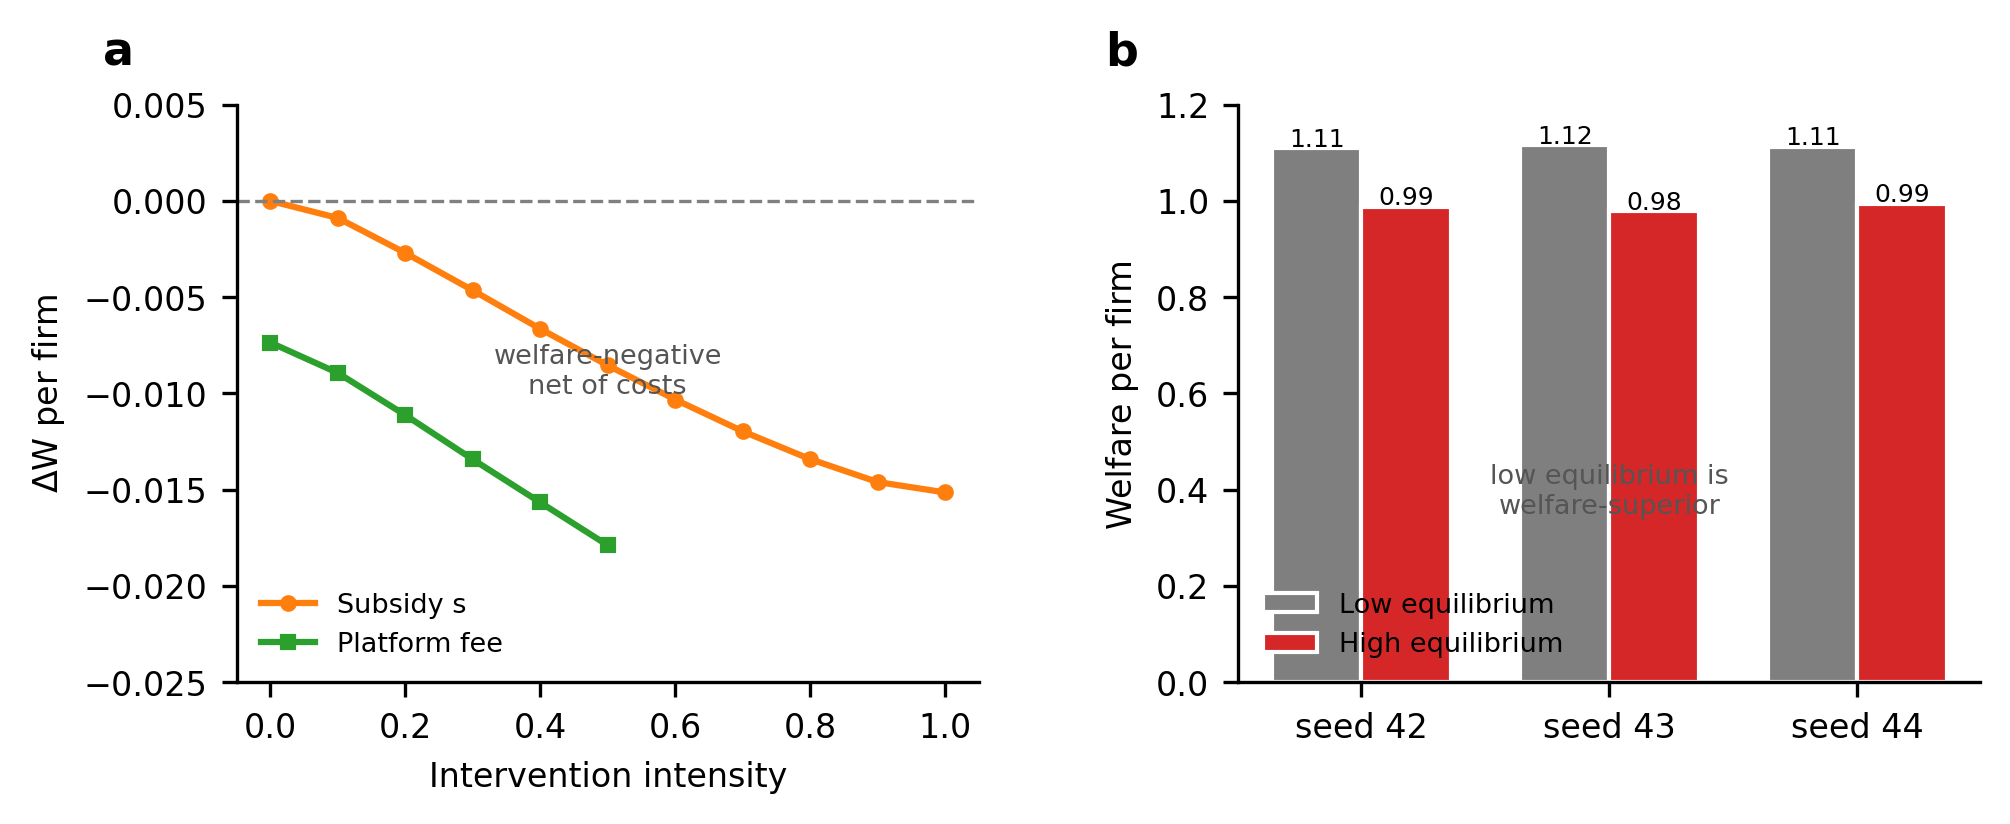
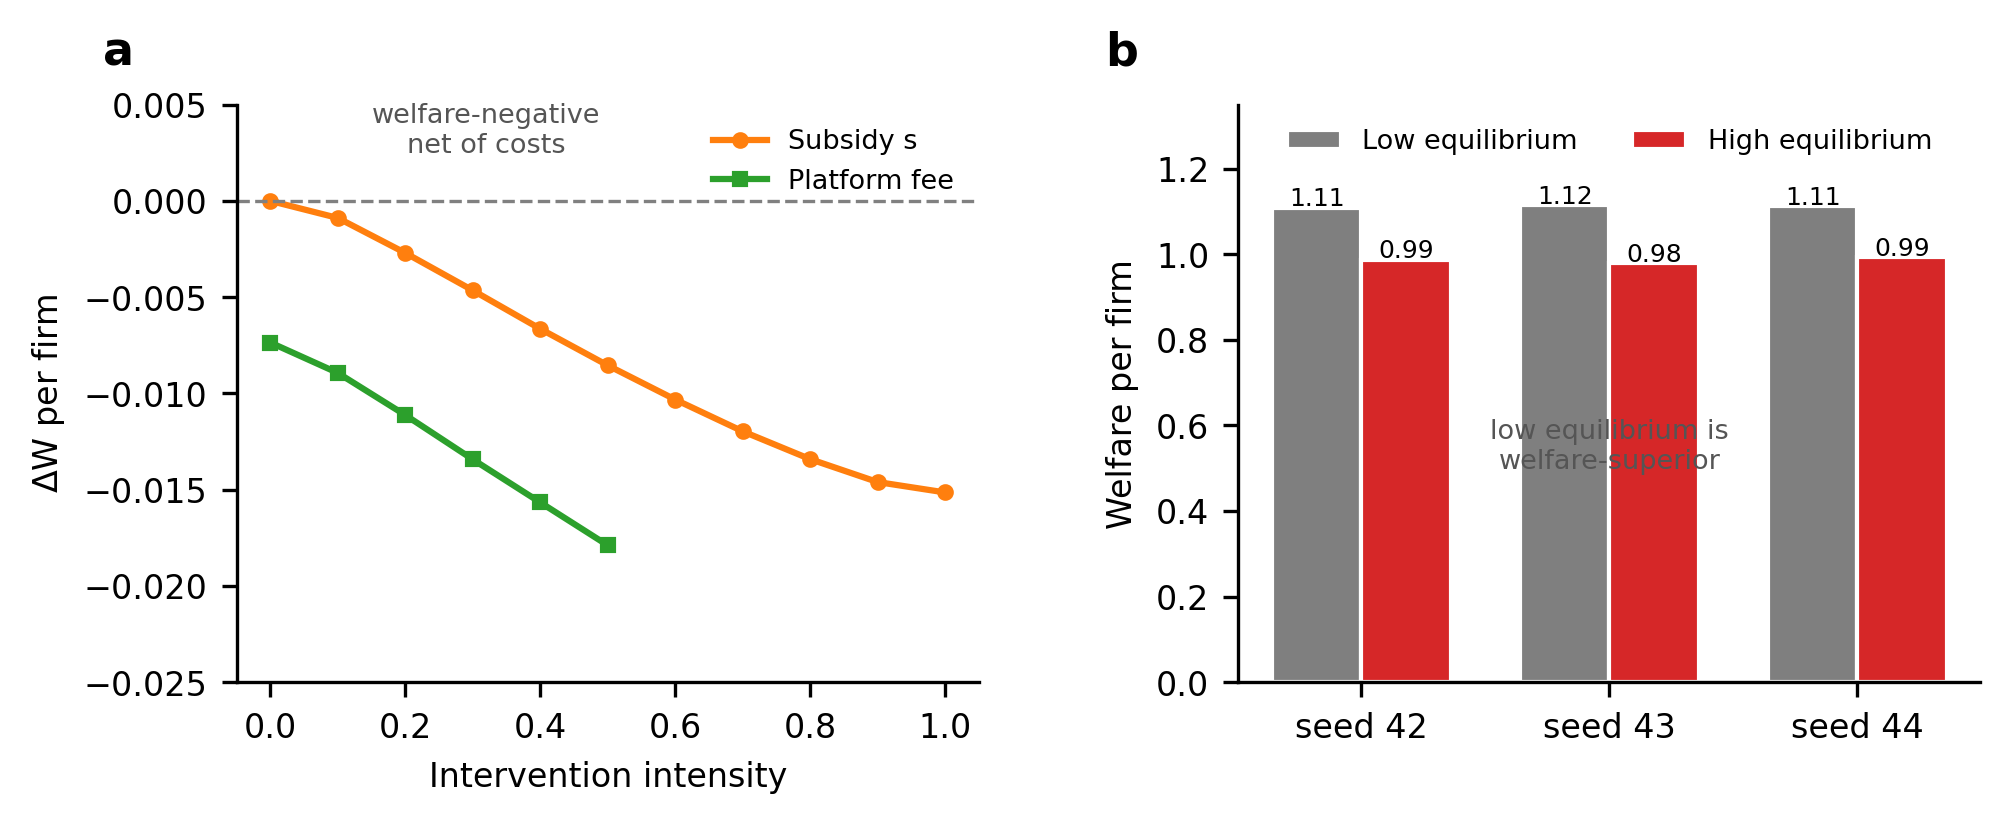
Fix Fig 7 label and legend overlaps

diff --git a/make_figures.py b/make_figures.py
@@ -412,11 +412,11 @@ def fig7():
     ax.plot(sub.index, sub.values, 'o-', color=cOrange, lw=1.5, ms=3, label='Subsidy s')
     ax.plot(plat.index, plat.values, 's-', color=cGreen, lw=1.5, ms=3, label='Platform fee')
     ax.axhline(0, color='gray', lw=0.8, ls='--')
-    ax.annotate('welfare-negative\nnet of costs', xy=(0.5, -0.010), fontsize=6.5,
+    ax.annotate('welfare-negative\nnet of costs', xy=(0.32, 0.0025), fontsize=6.5,
                 color='#555', ha='center')
     ax.set_xlabel('Intervention intensity'); ax.set_ylabel(r'$\Delta$W per firm')
     ax.set_ylim(-0.025, 0.005)
-    ax.legend(fontsize=6.5)
+    ax.legend(fontsize=6.5, loc='upper right')
     label(ax, 'a')
 
     # (b) ABM low- vs high-equilibrium welfare
@@ -433,10 +433,10 @@ def fig7():
         ax.text(i - 0.18, low[i] + 0.004, f'{low[i]:.2f}', ha='center', fontsize=6)
         ax.text(i + 0.18, high[i] + 0.004, f'{high[i]:.2f}', ha='center', fontsize=6)
     ax.set_xticks(x); ax.set_xticklabels([f'seed {s}' for s in seeds])
-    ax.set_ylabel('Welfare per firm'); ax.set_ylim(0, 1.2)
-    ax.legend(fontsize=6.5)
-    ax.annotate('low equilibrium is\nwelfare-superior', xy=(1, 0.35),
+    ax.set_ylabel('Welfare per firm'); ax.set_ylim(0, 1.35)
+    ax.annotate('low equilibrium is\nwelfare-superior', xy=(1, 0.5),
                 fontsize=6.5, color='#555', ha='center')
+    ax.legend(fontsize=6.5, ncol=2, loc='upper center')
     label(ax, 'b')
 
     save(fig, 'Fig7_welfare')
